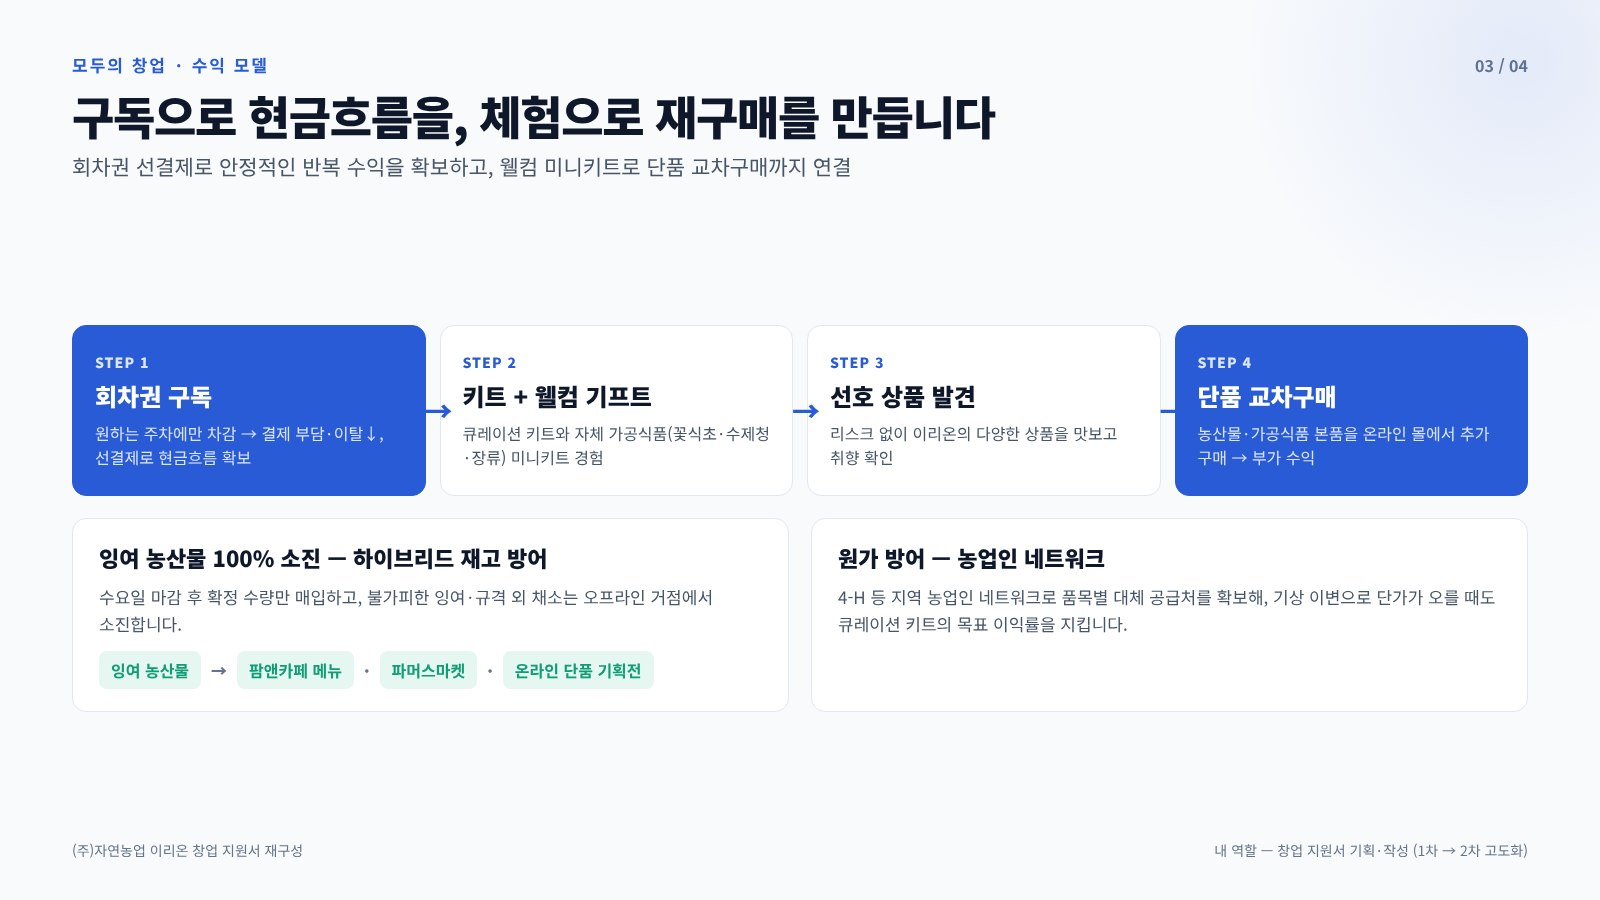
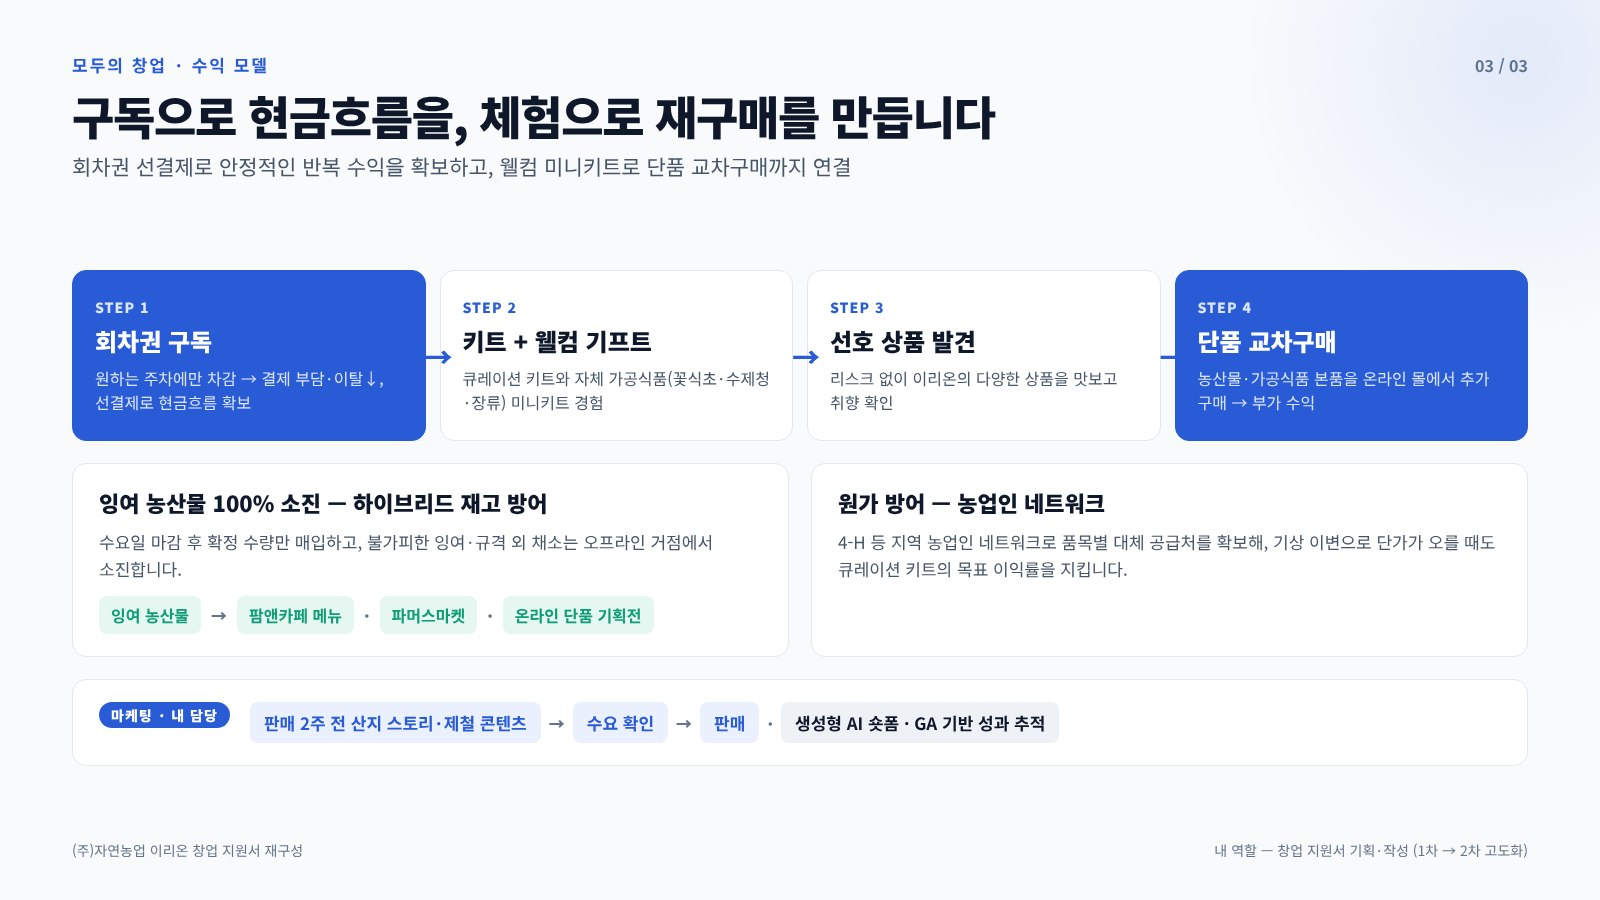
모두의 창업: drop roadmap slide, move marketing row into slide 3
Claude-Session: https://claude.ai/code/session_01VAQBYZ42i7kGP3DyQ4Ru2v

diff --git a/index.html b/index.html
@@ -305,7 +305,7 @@ const projects=[
  background:"청년농업인 클라이언트((주)자연농업 이리온)의 오프라인 직거래 모델을 창업 지원사업에 맞는 온라인 사업모델로 바꿔야 했습니다.",
  strategy:"타깃을 MZ·1인 가구에서 2030 맞벌이 가구로 좁히고, 이들의 주말 집밥 문제를 '3중고'로 정의해 소포장 구독 서비스로 풀었습니다.",
  execution:"회차권 구독과 웰컴 미니키트 교차구매로 수익모델을 설계하고, 수요일 마감 숏사이클 물류와 KPI 기반 사업화·마케팅 계획을 지원서에 담았습니다.",
- gallery:[{src:"media/irion-1.jpg",caption:"01 문제와 타깃 재정의 — 1차 → 2차 지원서, 2030 맞벌이 가구의 3중고"},{src:"media/irion-2.jpg",caption:"02 서비스 구조 — 수요일 마감 숏사이클 물류, 산지 다이렉트 구조"},{src:"media/irion-3.jpg",caption:"03 수익 모델 — 회차권 구독 → 웰컴키트 → 단품 교차구매"},{src:"media/irion-4.jpg",caption:"04 사업화 로드맵 — 유료 실증부터 단계적 확장, 핵심 KPI"}],
+ gallery:[{src:"media/irion-1.jpg",caption:"01 문제와 타깃 재정의 — 1차 → 2차 지원서, 2030 맞벌이 가구의 3중고"},{src:"media/irion-2.jpg",caption:"02 서비스 구조 — 수요일 마감 숏사이클 물류, 산지 다이렉트 구조"},{src:"media/irion-3.jpg",caption:"03 수익 모델 — 회차권 구독 → 웰컴키트 → 단품 교차구매, 콘텐츠 기반 마케팅(내 담당)"}],
  mediaNote:"창업 지원서(2차) 핵심 내용 도식화 (직접 기획·작성)"},
 
 {id:10,category:"personal",featured:false,
